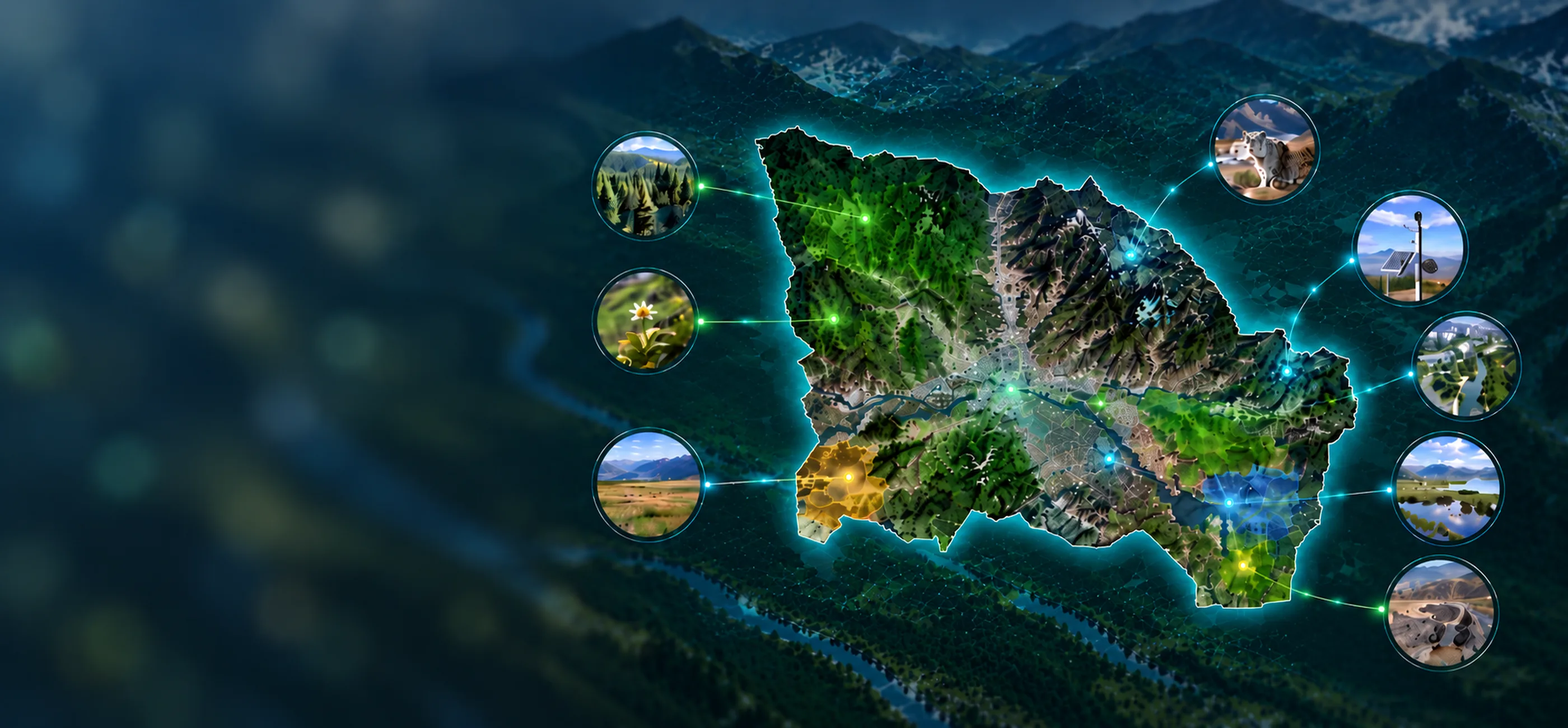
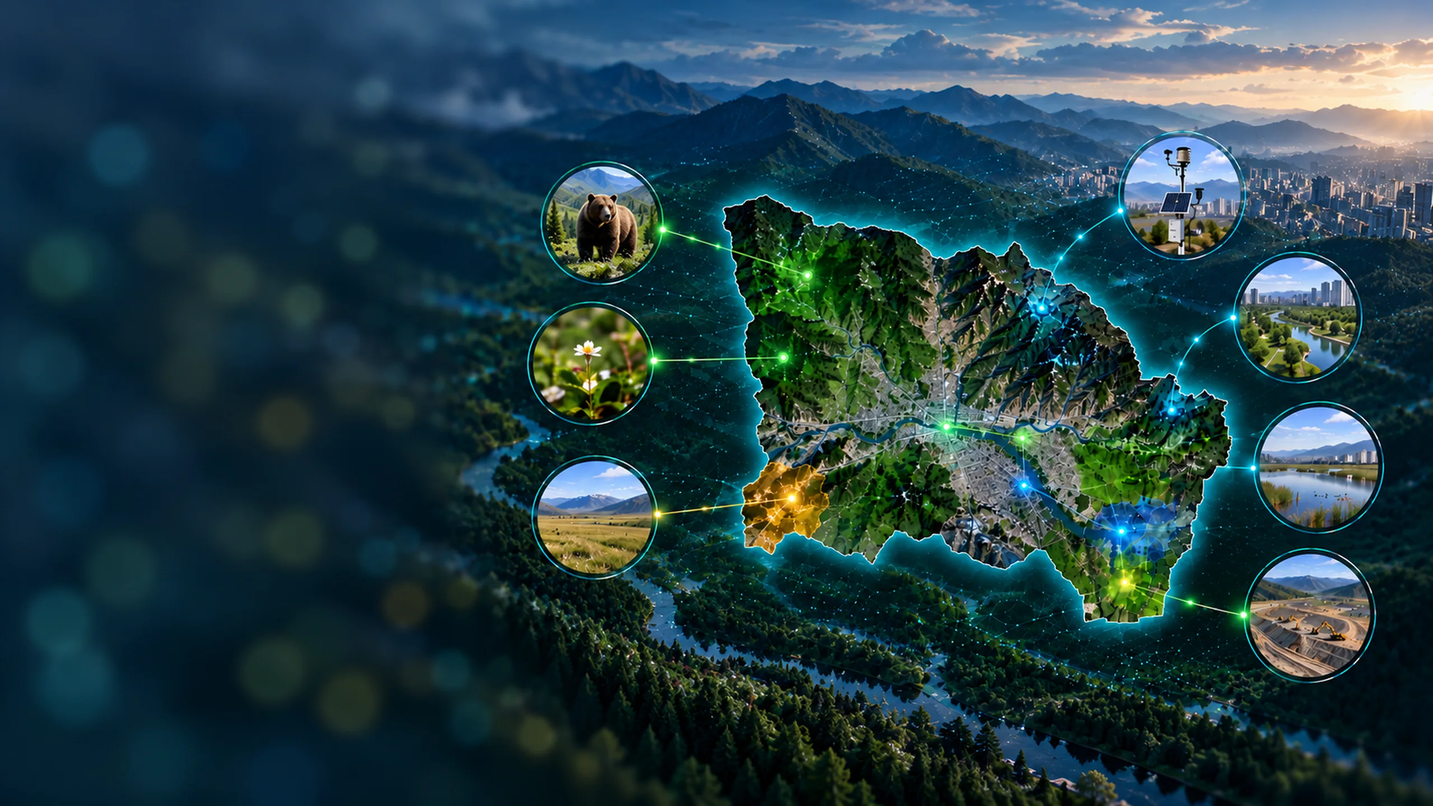
Дэвсгэр зураг 16:9 боллоо — хайчлалт босоо тэнхлэг рүү шилжив
Хэрэглэгчийн шинэ зураг. Хоёр хувилбар ирснээс 2560×1440-ийг сонгов:
1920×1080 нь ЯГ ИЖИЛ зураг боловч QHD цонхон дээр 1.33 дахин сунгаж,
саяхан зассан бүдгэрэлт эргэж ирэх байв. 2560 дээр сунгалт огт байхгүй.

⚠ SVG-г ШУУД ХЭРЭГЛЭЭГҮЙ. Ирсэн файлууд нь нэг `<image>` доторх base64
PNG — вектор биш. SVG нь base64-ээс болж эх PNG-ээсээ ~33% том (5.3MB)
тул дотроос нь гаргаж аваад WebP болгов: 4.0MB → 348KB (quality 84).

⚠ 16:9 БОЛСОН НЬ ЗӨВХӨН НЯГТРАЛЫН ХЭРЭГ БИШ. `bg-cover` нь аль
тэнхлэгээс хайчлахаа харьцаагаар шийддэг. Өмнөх 2.15:1 зураг дээр
хайчлалт ХЭВТЭЭ явж, MacBook маягийн цонхон дээр хажуугаас 18%
хасагддаг байв — тэр нь яг бичвэр ба зураглалын хоорондох завсрыг
иддэг. 16:9 дээр хайчлалт БОСОО болж (тэнгэр, урд талын мод, 10-14%),
хэвтээгээр ердөө 1% хасагдана. Зүүн хоосон хэсэг ба баруун талын
зураглал хоёулаа бүтнээрээ үлдэнэ.

Зургийн бүтэц өөрчлөгдөөгүй (агуулга нь 37%-иас баруун тийш) тул
байрлуулалт хэвээр — бичвэр зүүн талдаа.

diff --git a/src/components/auth/sign-in.tsx b/src/components/auth/sign-in.tsx
@@ -23,21 +23,23 @@ import { asset } from "@/lib/base-path";
    давхарлагдсан градиент харагдах тул дэлгэц хэзээ ч хоосон цагаан
    болохгүй. Зураг солих нь ганц файл солих ажил — код хөндөхгүй.
 
-   ⚠ **БИЧВЭР ЗҮҮН ТАЛД СУУНА — ЗУРГААС БОЛЖ.** Одоогийн зураг
-   (2800×1300) нь нийслэлийн зураглал, зангилаануудыг өргөний **37%-иас
-   баруун тийш** агуулж, зүүн гуравны нэг нь бүдгэрсэн уулархаг дэвсгэр.
-   Бичвэр тэр хоосон хэсэгт сууна.
+   ⚠ **БИЧВЭР ЗҮҮН ТАЛД СУУНА — ЗУРГААС БОЛЖ.** Зураг (2560×1440) нь
+   нийслэлийн зураглал, зангилаануудыг өргөний **37%-иас баруун тийш**
+   агуулж, зүүн гуравны нэг нь бүдгэрсэн уулархаг дэвсгэр. Бичвэр тэр
+   хоосон хэсэгт сууна.
    ⚠ Зураг солигдож агуулга нь нөгөө тал руу шилжвэл ГУРВАН зүйл ЗЭРЭГ
    эргэнэ: бичвэрийн тал (`justify-end`), хөшгийн чиглэл
    (`bg-gradient-to-l`), мөн доорх тооцоо. Ганцыг нь өөрчилвөл хөшиг
    гол агуулгыг дарна — нэг удаа ингэж эргүүлээд буцаасан.
 
-   ⚠ **ХАЙЧЛАЛТ ГОЛООРОО** (`bg-center`). `bg-cover` нь цонхны харьцаа
-   зургийнхаас нарийн байвал илүүдлийг хажуугаас хайчилдаг. Хамгийн
-   ноцтой тохиолдол нь MacBook маягийн цонх (1512×860) — хажуугаас 18%,
-   хоёр тийш тэнцүү хуваагдаж тал бүрээс 9%. Бичвэрийн блок 380px тул
-   1512px өргөн цонхны 28%-ийг эзэлж, зургийн 32%-д тулна — агуулга
-   эхлэх 37%-аас хол. Тиймээс бичвэр зураглалыг ХЭЗЭЭ Ч давхарлахгүй.
+   ⚠ **16:9 ХАРЬЦАА НЬ САНААТАЙ.** `bg-cover` нь илүүдлийг хайчилдаг
+   бөгөөд аль тэнхлэгээс хайчлагдах нь ХАРЬЦААНААС шалтгаална. Өмнөх
+   2.15:1 зураг дээр хайчлалт ХЭВТЭЭ явж, MacBook маягийн цонхон дээр
+   хажуугаас 18% хүртэл хасагддаг байв — тэр нь бичвэр ба зураглалын
+   хоорондох завсрыг иддэг. 16:9 дээр хайчлалт БОСОО болж (тэнгэр,
+   урд талын мод — 10–14%), хэвтээгээр ердөө 1% хасагдана. Тиймээс
+   зүүн хоосон хэсэг ба баруун талын зураглал хоёулаа бүтнээрээ
+   үлдэж, бичвэр зураглалыг хэзээ ч давхарлахгүй.
 
    ⚠ **БИЧВЭР ЗУРАГ ДЭЭР УНШИГДАХ ЁСТОЙ.** Бичвэрийг зурган дээр ШУУД
    тавихгүй: хагас тунгалаг хөшиг (`scrim`) дээр сууна. Ингэснээр зураг

diff --git a/public/auth/README.md b/public/auth/README.md
@@ -1,18 +1,22 @@
 # Нэвтрэх дэлгэцийн дэвсгэр зураг
 
-Одоогийн файл: **`background.webp`** — 2800×1300 (2.15:1), 250KB.
+Одоогийн файл: **`background.webp`** — 2560×1440 (16:9), 348KB.
 
-Эх нь 3.6MB PNG байсныг `sharp`-аар WebP болгож (`quality: 82`) 7% болгож
-шахсан. Зураг солих бол мөн ижил замаар, ижил нэрээр хадгална.
+Эх нь SVG-д base64-ээр шигтгэсэн 4.0MB PNG байсныг гаргаж аваад
+`sharp`-аар WebP болгосон (`quality: 84`).
+
+⚠ **SVG-г ШУУД ХЭРЭГЛЭХГҮЙ.** Ирсэн файлууд нь нэг `<image>` элемент
+доторх base64 PNG — вектор БИШ. SVG нь base64-ээс болж эх PNG-ээсээ
+~33% том (5.3MB) тул шууд тавьбал хэрэглэгч дэмий ачаалал үүрнэ.
 
 Зураг байхгүй ч нэвтрэх дэлгэц бүрэн ажиллана — доор нь давхарлагдсан
 градиент харагдана.
 
 ## ⚠ Зургийн БҮТЭЦ нь байрлуулалтыг тодорхойлно
 
-Одоогийн зураг нь нийслэлийн зураглал, зангилаануудыг өргөнийхөө **37%-иас
-баруун тийш** агуулж, зүүн гуравны нэг нь бүдгэрсэн уулархаг дэвсгэр.
-Тиймээс нэвтрэх бичвэр **ЗҮҮН** талд сууж, хөшиг нь тэр тийш өтгөрдөг.
+Зураглал, зангилаанууд нь өргөнийхөө **37%-иас баруун тийш**, зүүн
+гуравны нэг нь бүдгэрсэн уулархаг дэвсгэр. Тиймээс нэвтрэх бичвэр
+**ЗҮҮН** талд сууж, хөшиг нь тэр тийш өтгөрдөг.
 
 Агуулга нь нөгөө тал руугаа байрласан зураг тавих бол
 [`sign-in.tsx`](../../src/components/auth/sign-in.tsx) дотор **ГУРВЫГ
@@ -25,25 +29,33 @@
 Ганцыг нь өөрчилвөл хөшиг яг гол агуулгыг дарна — нэг удаа ингэж
 эргүүлээд буцаасан.
 
-## Хэмжээ
+## ⚠ 16:9 харьцаа нь санаатай
 
-`bg-cover` нь цонхны харьцаа зургийнхаас нарийн байвал илүүдлийг
-хажуугаас хайчилж, зураг цонхноос жижиг бол СУНГАНА (бүдгэрнэ).
+`bg-cover` нь илүүдлийг хайчилдаг бөгөөд АЛЬ ТЭНХЛЭГЭЭС хайчлагдах нь
+харьцаанаас шалтгаална:
 
-| Цонх | Хайчлалт | Масштаб |
+| Цонх | 2.15:1 зураг | 16:9 зураг |
 |---|---|---|
-| Зөөврийн 1366×657 | 3% | ×0.51 |
-| Бүтэн HD 1920×937 | 5% | ×0.72 |
-| QHD 2560×1297 | 8% | ×1.00 |
-| MacBook 1512×860 | 18% | ×0.66 |
+| Зөөврийн 1366×657 | хажуугаас 3% | дээр/доороос 14% |
+| Бүтэн HD 1920×937 | хажуугаас 5% | дээр/доороос 13% |
+| QHD 2560×1297 | хажуугаас 8% | дээр/доороос 10% |
+| MacBook 1512×860 | **хажуугаас 18%** | **хажуугаас 1%** |
 
-2800 өргөнтэй байснаар **QHD хүртэл сунгалт огт байхгүй**. Өмнөх 1831px
-хувилбар QHD дээр 1.5 дахин сунгаж бүдгэрдэг байв.
+Өргөн зураг дээр хайчлалт ХЭВТЭЭ явж, бичвэр ба зураглалын хоорондох
+завсрыг иддэг. 16:9 дээр хайчлалт БОСОО болж тэнгэр, урд талын модноос
+хасагдана — зүүн хоосон хэсэг ба баруун талын зураглал хоёулаа
+бүтнээрээ үлдэнэ.
 
-Хайчлалт нь хэмжээнээс биш ХАРЬЦААНААС болно — 2.15:1 зураг 16:9 цонхонд
-хажуугаасаа хасагдана. Хайчлалт голоороо тэнцүү хуваагддаг тул бичвэрийн
-талд 9% хүртэл хасагдах ба бичвэр зургийн 32%-д тулдаг: агуулга эхлэх
-37%-аас хол тул давхарлахгүй.
+## Нягтрал
 
-Гар утсанд зураг 78% хүртэл хайчлагдаж зөвхөн голын хэсэг харагдана —
-тэнд бичвэр бүтэн хөшгөн дээр сууна.
+Зураг цонхноос жижиг бол `bg-cover` түүнийг СУНГАНА (бүдгэрнэ).
+2560 өргөнтэй байснаар **QHD хүртэл сунгалт огт байхгүй**.
+
+| Хувилбар | QHD 2560×1297 дээр |
+|---|---|
+| 1831×859 | ×1.51 сунгана |
+| 1920×1080 | ×1.33 сунгана |
+| **2560×1440** | **×1.00 цэвэр** |
+
+Гар утсанд зураг ихээр хайчлагдаж голын хэсэг харагдана — тэнд бичвэр
+бүтэн хөшгөн дээр сууна.
